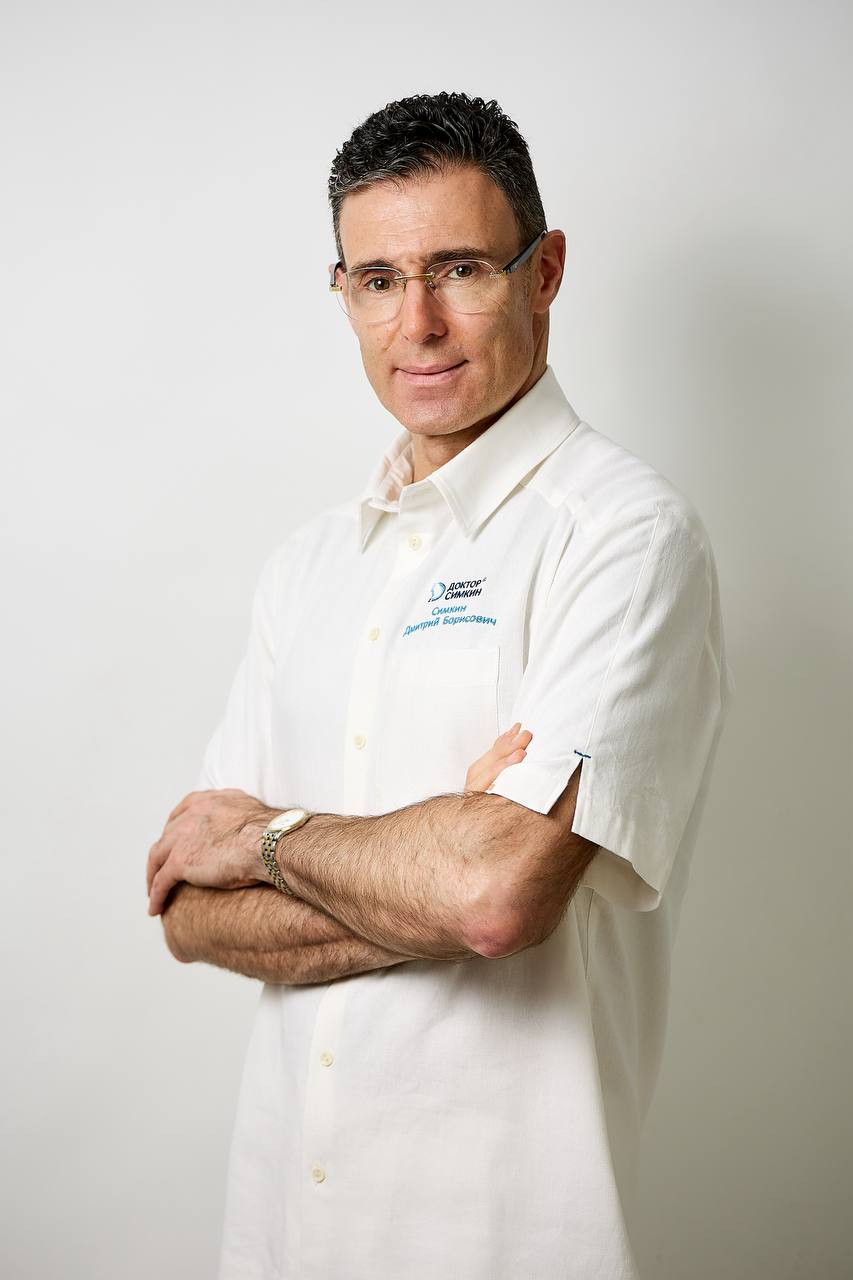
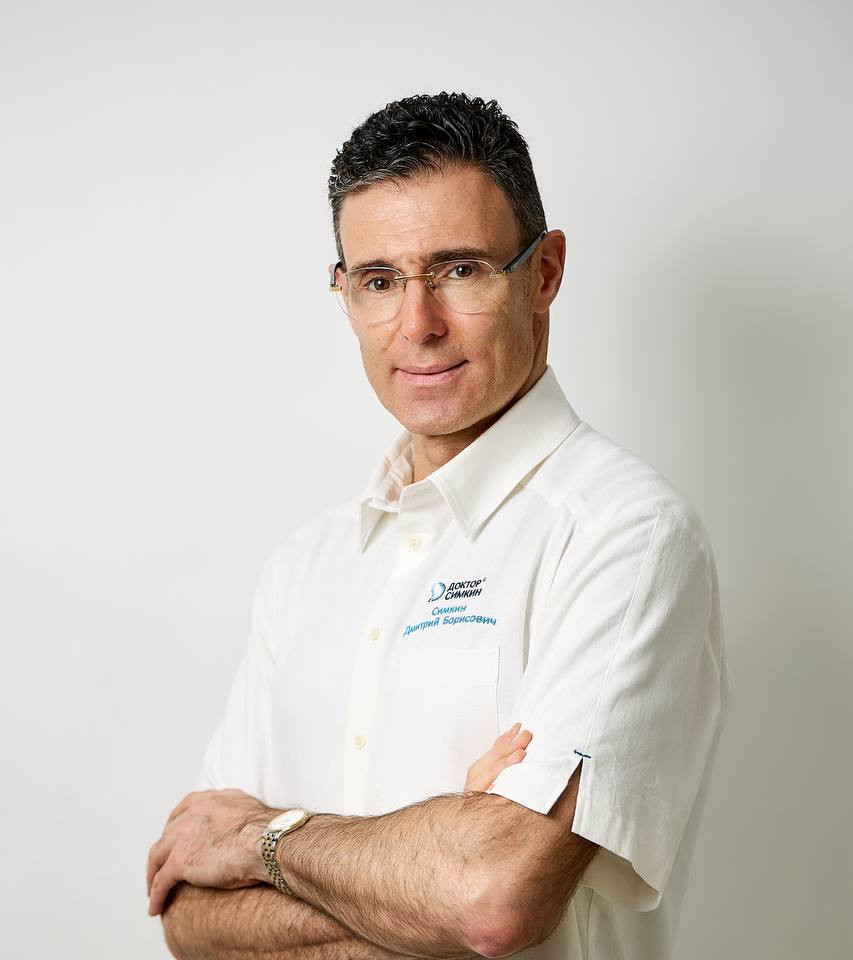
Портрет подрезан снизу, кнопки направлений на телефоне — в строку
Портрет в блоке «Обо мне» пересобран из оригинала: 853x1280 -> 853x960, снято
25% снизу. Блок перестал растягиваться: на десктопе высота упала с 805 до
680px, на телефоне кадр стал 377 вместо 502. Пути с ?v=2 из-за кэша.

Подписи кнопок направлений ниже 820px снова в одну строку: кегль привязан
к ширине окна и уменьшается ровно настолько, чтобы влезть. На 375px это
11.8px при доступных 242px под текст — предел для самой длинной подписи
«Подробнее о промышленной эргономике».

diff --git a/design/design.css b/design/design.css
@@ -1206,12 +1206,15 @@ a.dpost:hover{border-color:transparent;box-shadow:0 20px 54px rgba(35,43,62,.1);
   .doffers--three{grid-template-columns:repeat(2,minmax(0,1fr))}
   .doffers--three .doffer:last-child{grid-column:1 / -1}
 }
-/* ниже ~820px колонка короче самой длинной подписи, и строка в одну линию
-   начинает выдавливать страницу вбок — здесь подпись снова переносится */
+/* ниже 820px колонка короче самой длинной подписи («Подробнее о промышленной
+   эргономике»), поэтому там кегль кнопки привязан к ширине окна: подпись
+   остаётся в одну строку, но уменьшается ровно настолько, чтобы влезть. */
 @media (max-width:820px){
   .doffer__btn .dbtn{
-    height:auto;min-height:56px;padding:14px 20px;line-height:1.3;white-space:normal;
+    height:56px;padding:0 14px;gap:6px;line-height:1.2;white-space:nowrap;
+    font-size:clamp(11.5px,3.15vw,15px);
   }
+  .doffer__btn .dbtn svg{width:16px;height:16px}
 }
 @media (max-width:760px){
   .doffers,.doffers--three{grid-template-columns:1fr}

diff --git a/design/index.html b/design/index.html
@@ -10,7 +10,7 @@
 <link rel="preconnect" href="https://fonts.gstatic.com" crossorigin>
 <link rel="stylesheet" href="https://fonts.googleapis.com/css2?family=Manrope:wght@400;500;600;700;800&family=Onest:wght@400;500;600;700&display=swap">
 <link rel="stylesheet" href="../styles.css?v=30">
-<link rel="stylesheet" href="design.css?v=123">
+<link rel="stylesheet" href="design.css?v=124">
 </head>
 <body class="d">
 
@@ -273,8 +273,8 @@
     <div class="dexp">
       <div class="dexp__ph" data-rv>
         <picture>
-          <source srcset="assets/photo/simkin-2.webp" type="image/webp">
-          <img src="assets/photo/simkin-2.jpg" alt="Дмитрий Симкин" width="853" height="1280" loading="lazy" decoding="async">
+          <source srcset="assets/photo/simkin-2.webp?v=2" type="image/webp">
+          <img src="assets/photo/simkin-2.jpg?v=2" alt="Дмитрий Симкин" width="853" height="960" loading="lazy" decoding="async">
         </picture>
       </div>
       <div class="dexp__body">

diff --git a/design/company.html b/design/company.html
@@ -10,7 +10,7 @@
 <link rel="preconnect" href="https://fonts.gstatic.com" crossorigin>
 <link rel="stylesheet" href="https://fonts.googleapis.com/css2?family=Manrope:wght@400;500;600;700;800&family=Onest:wght@400;500;600;700&display=swap">
 <link rel="stylesheet" href="../styles.css?v=30">
-<link rel="stylesheet" href="design.css?v=123">
+<link rel="stylesheet" href="design.css?v=124">
 </head>
 <body class="d dco">
 
